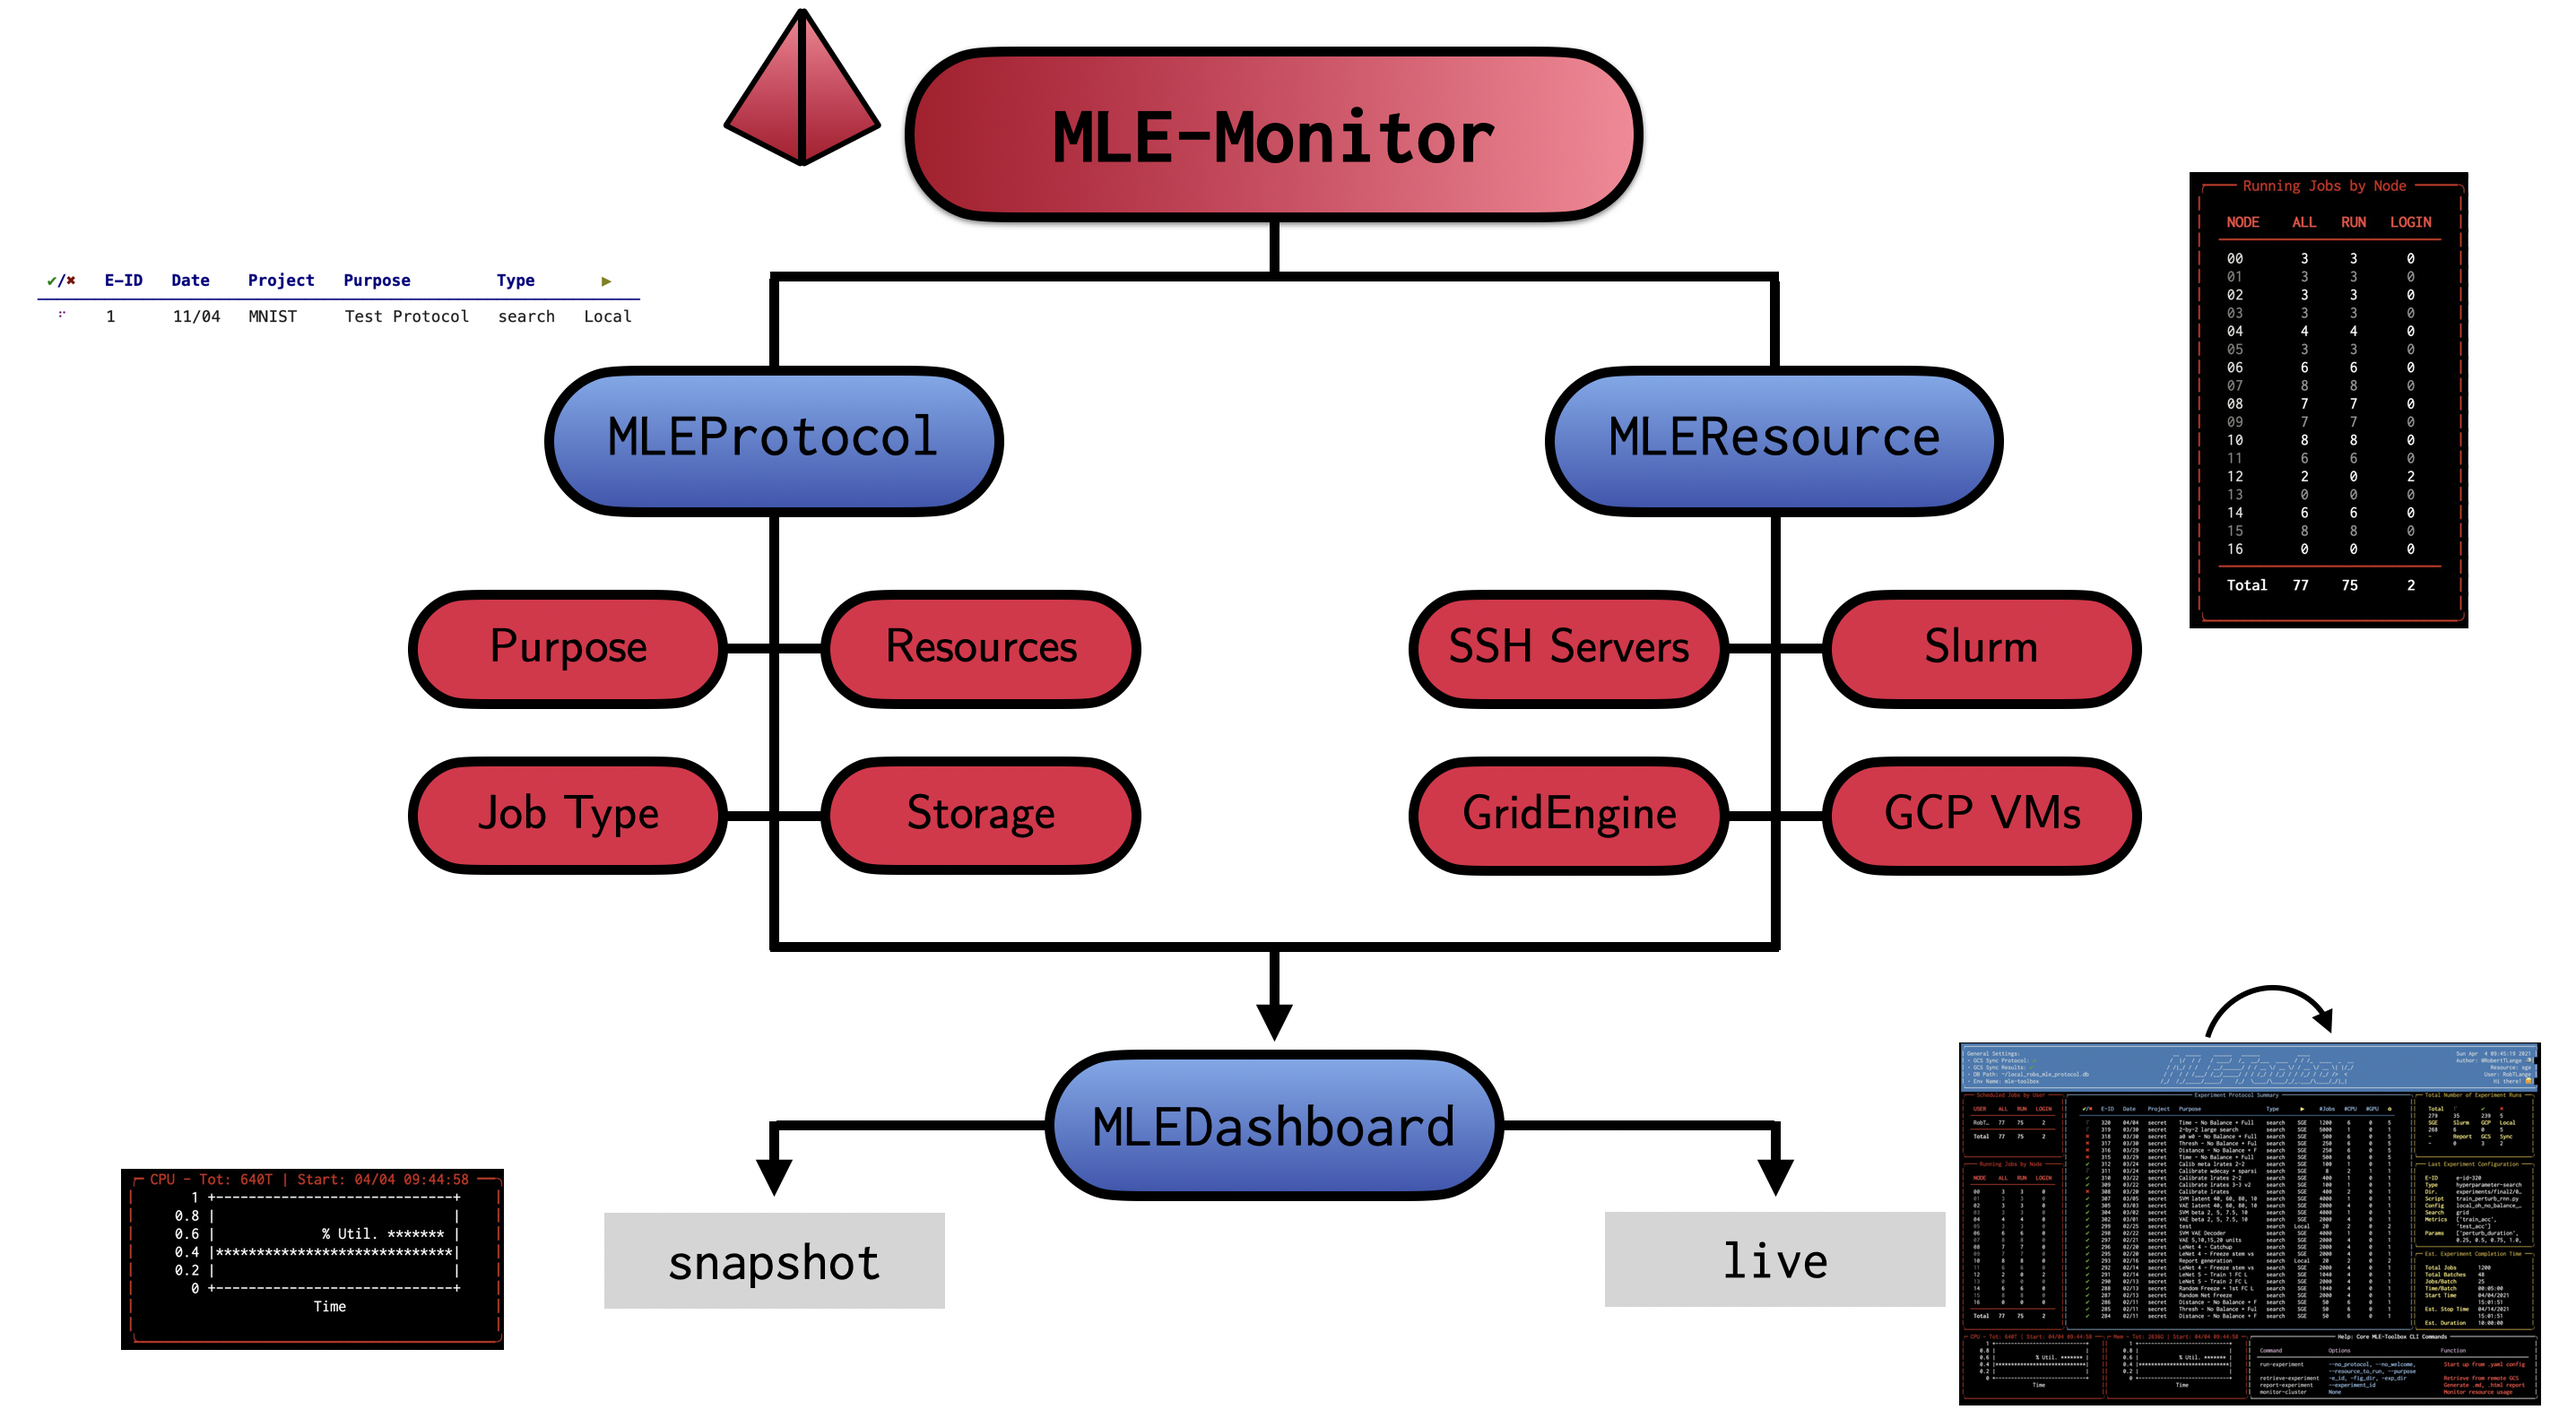
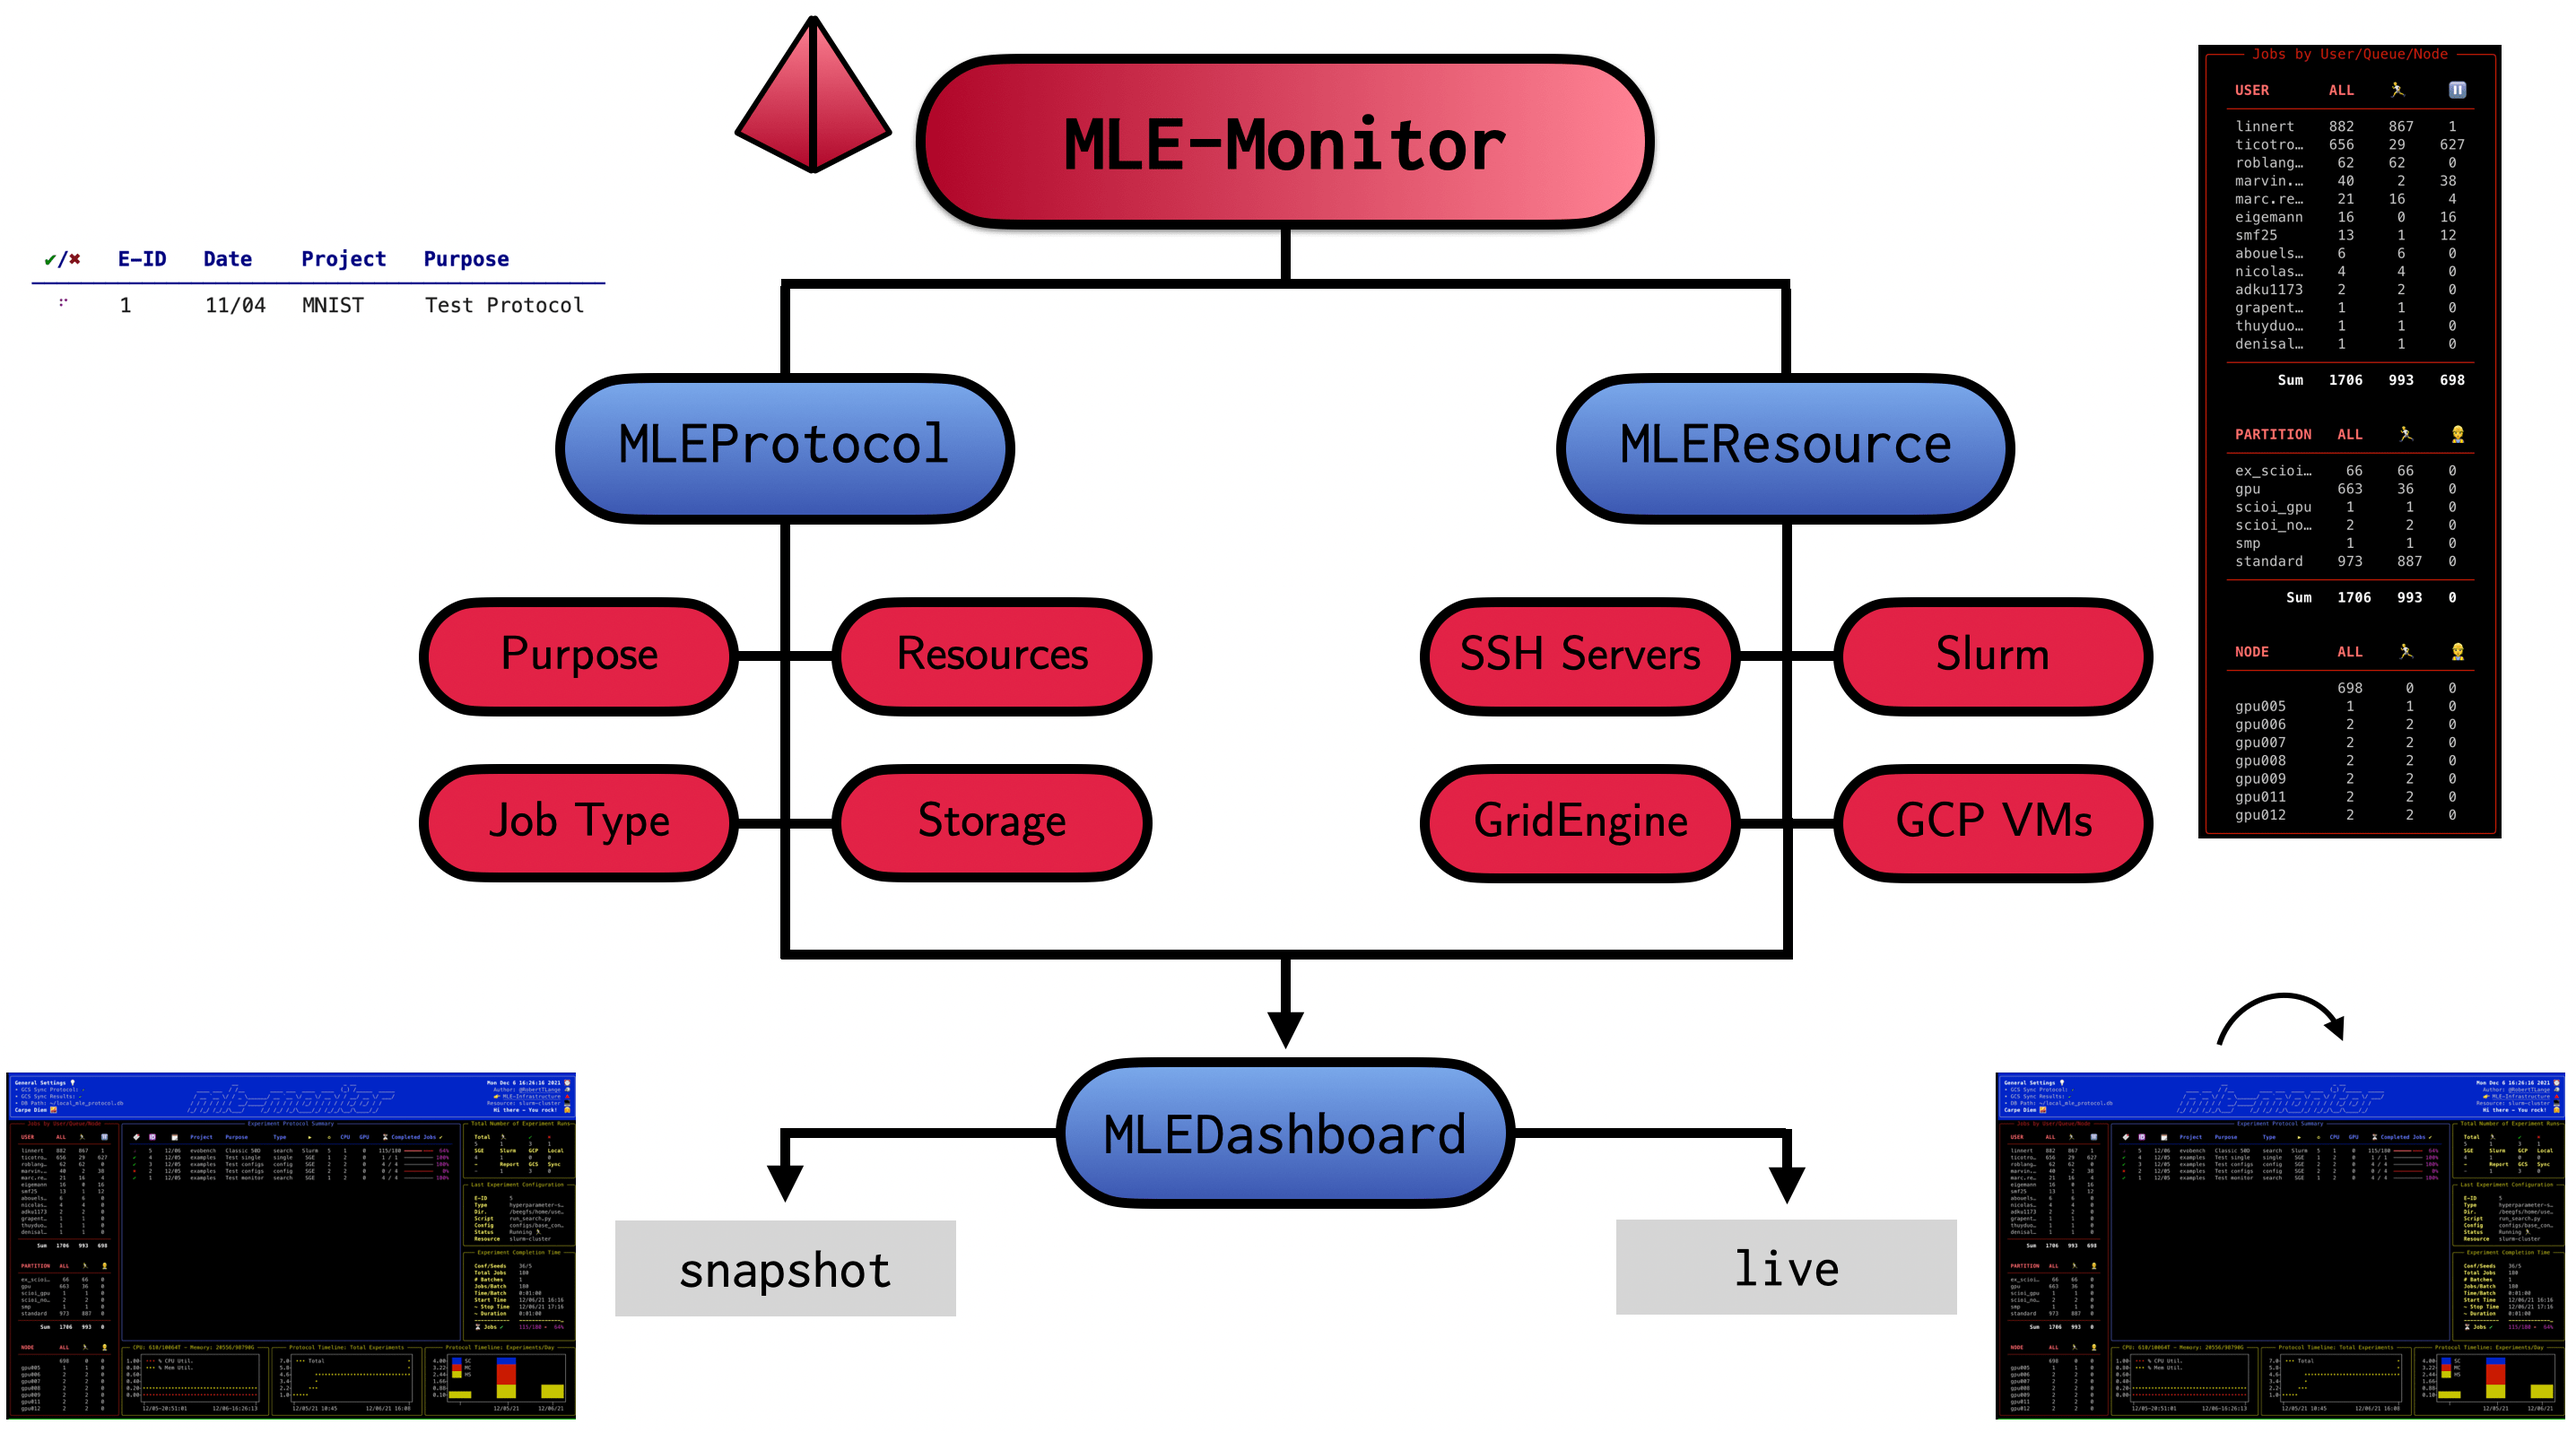
Add gif

diff --git a/examples/run_infrastructure.py b/examples/run_infrastructure.py
@@ -1,7 +1,7 @@
 from mle_hyperopt import RandomSearch
 from mle_scheduler import MLEQueue
 from mle_monitor import MLEProtocol
-from mle_logging import merge_config_logs, load_meta_log
+from mle_logging import load_meta_log
 
 
 def main():
@@ -44,12 +44,8 @@ def main():
     )
     queue.run()
 
-    # Merge the logs of the different random seeds and configs
-    for log_dir in queue.mle_log_dirs:
-        queue.merge_seeds(log_dir)
-    merge_config_logs(experiment_dir="logs_search/", all_run_ids=queue.mle_run_ids)
-
-    # Load meta log and get final test_loss scores
+    # Merge logs of random seeds & configs -> load & get final scores
+    queue.merge_configs(merge_seeds=True)
     meta_log = load_meta_log("logs_search/meta_log.hdf5")
     test_scores = [meta_log[r].stats.test_loss.mean[-1] for r in queue.mle_run_ids]
 

diff --git a/mle_monitor/mle_protocol.py b/mle_monitor/mle_protocol.py
@@ -3,7 +3,6 @@ from datetime import datetime
 import sys
 import select
 import logging
-from rich.console import Console
 from .protocol import (
     load_protocol_db,
     protocol_summary,
@@ -181,7 +180,7 @@ class MLEProtocol(object):
         self.all_experiment_ids = list(self.db.getall())
         try:
             self.all_experiment_ids.remove("summary")
-        except:
+        except Exception:
             pass
         if len(self.all_experiment_ids) > 0:
             self.last_experiment_id = int(self.all_experiment_ids[-1])

diff --git a/mle_monitor/resource/sge.py b/mle_monitor/resource/sge.py
@@ -47,9 +47,8 @@ class SGEResource(object):
         for job in all_job_infos:
             job_clean = job.decode().split(" ")
             job_clean = list(filter(None, job_clean))
-            host_ip = job_clean[-2].split("@")
+            host_ip = job_clean[7].split("@")
             job_df["user"].append(job_clean[3])
-
             if len(host_ip) > 1:
                 job_df["queue"].append(host_ip[0])
                 job_df["node"].append(host_ip[1][:-1])

diff --git a/mle_monitor/mle_dashboard.py b/mle_monitor/mle_dashboard.py
@@ -62,7 +62,7 @@ class MLEDashboard(object):
                     )
 
                     # Every 10 seconds reload local database file
-                    if time.time() - timer_db > 10:
+                    if time.time() - timer_db > 2:
                         self.protocol.load(pull_gcs=False)
                         timer_db = time.time()
 

diff --git a/mle_monitor/protocol/tables.py b/mle_monitor/protocol/tables.py
@@ -46,7 +46,7 @@ def protocol_summary(
         d = {
             "ID": [str(e_id) for e_id in all_experiment_ids[-tail:]],
             "Date": start_times,
-            "Project": project_names,
+            "Project": "secret",
             "Purpose": purposes,
             "Experiment Dir": exp_paths,
             "Status": statuses,

diff --git a/README.md b/README.md
@@ -1,10 +1,14 @@
-# Lightweight Cluster/Cloud VM Monitoring 📺
+# Lightweight Experiment & Resource Monitoring 📺
 [![Pyversions](https://img.shields.io/pypi/pyversions/mle-monitor.svg?style=flat-square)](https://pypi.python.org/pypi/mle-monitor)
 [![PyPI version](https://badge.fury.io/py/mle-monitor.svg)](https://badge.fury.io/py/mle-monitor)
 [![Code style: black](https://img.shields.io/badge/code%20style-black-000000.svg)](https://github.com/psf/black)
 [![Colab](https://colab.research.google.com/assets/colab-badge.svg)](https://colab.research.google.com/github/mle-infrastructure/mle-monitor/blob/main/examples/getting_started.ipynb)
 [![codecov](https://codecov.io/gh/mle-infrastructure/mle-monitor/branch/main/graph/badge.svg?75FIYZG8BD)](https://codecov.io/gh/mle-infrastructure/mle-monitor)
 <a href="https://github.com/mle-infrastructure/mle-monitor/blob/main/docs/logo_transparent.png?raw=true"><img src="https://github.com/mle-infrastructure/mle-monitor/blob/main/docs/logo_transparent.png?raw=true" width="200" align="right" /></a>
+
+"Did I already run this experiment before? How many resources are currently available on my cluster?" If these are common questions you encounter during your daily life as a researcher, then `mle-monitor` is made for you. It provides a lightweight API for tracking your experiments using a pickle protocol database (e.g. for hyperparameter searches and/or multi-configuration/multi-seed runs). Furthermore, it comes with built-in resource monitoring on Slurm/Grid Engine clusters and local machines/servers.
+
+<img src="https://github.com/mle-infrastructure/mle-monitor/blob/main/docs/monitor-promo-gif?raw=true" alt="drawing" width="900"/>
 
 `mle-monitor` provides three core functionalities:
 
